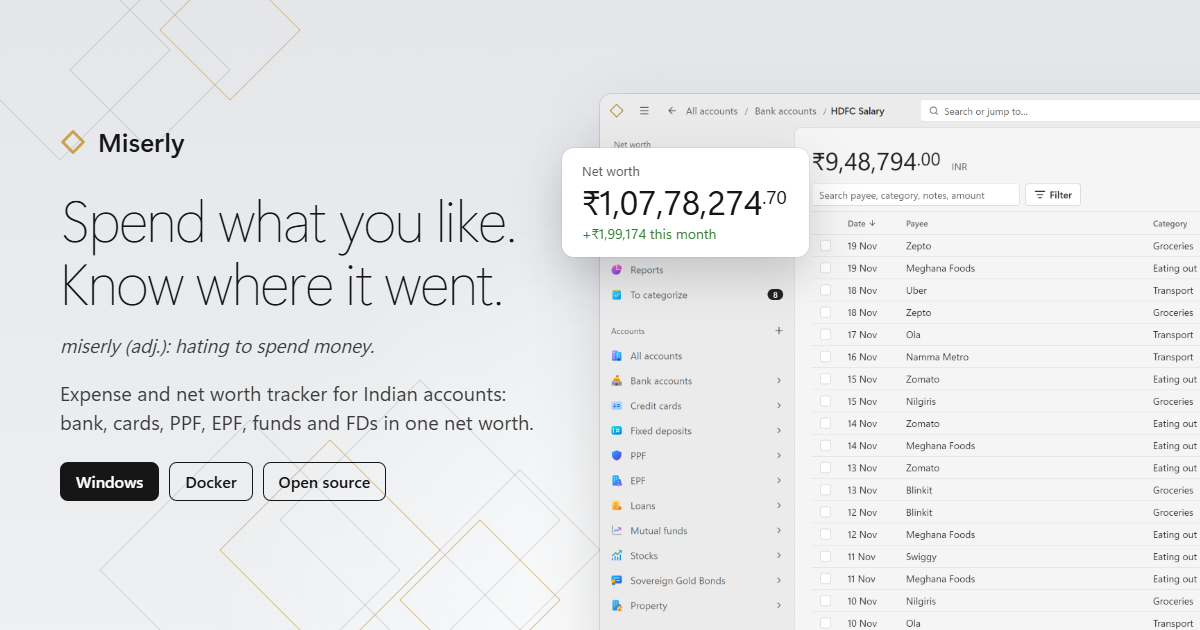
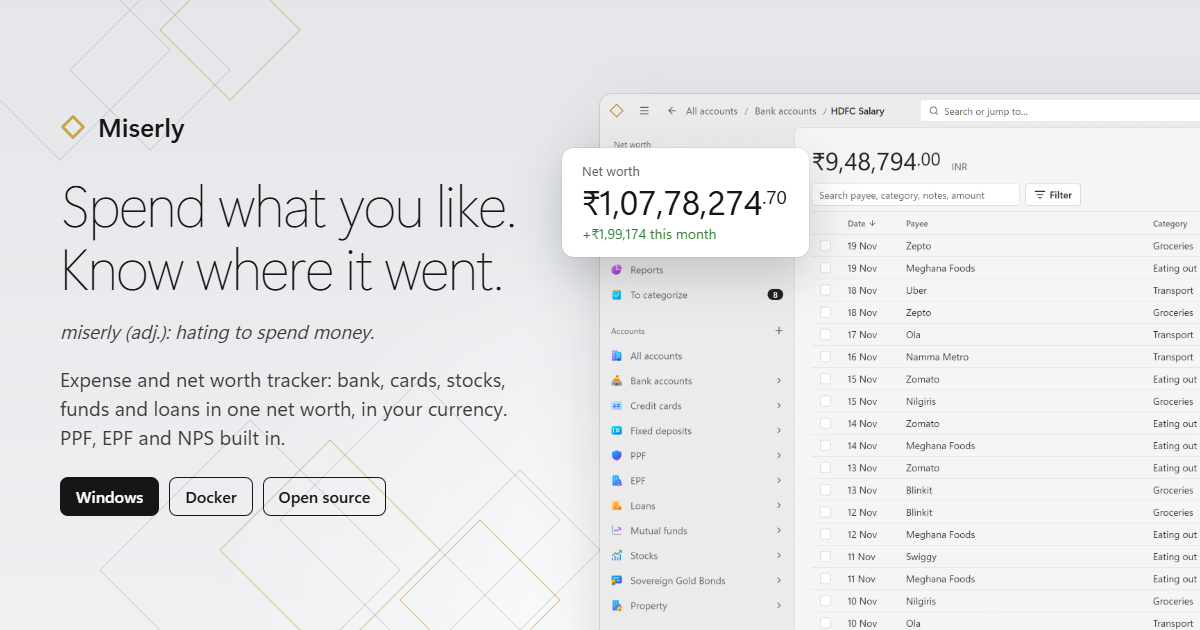
Wording for any currency: the title, descriptions and share card; the Store copy's data folder

Changed region(s): [[0.0308, 0.5127, 0.4317, 0.8444], [0.0308, 0.3016, 0.4317, 0.4825], [0.0308, 0.181, 0.1542, 0.2413]]

diff --git a/site/index.html b/site/index.html
@@ -3,8 +3,8 @@
 <head>
 <meta charset="utf-8">
 <meta name="viewport" content="width=device-width, initial-scale=1">
-<title>Miserly: expense and net worth tracker for Indian accounts</title>
-<meta name="description" content="Free, open-source expense and net worth tracker for India. Type in what you spend and what your PPF, EPF, NPS, mutual funds and FDs are worth, and see one net worth. Windows app or Docker, no bank logins.">
+<title>Miserly: free, open-source expense and net worth tracker</title>
+<meta name="description" content="Bank accounts, cards, stocks, mutual funds, property and loans in one net worth, in the currency you choose. PPF, EPF, NPS and lakhs and crores are built in too. No bank logins; your data stays on your computer. For Windows or Docker.">
 <link rel="canonical" href="https://miserly.jamlab.in/">
 <meta name="theme-color" content="#eef0f2" media="(prefers-color-scheme: light)">
 <meta name="theme-color" content="#0b0b0b" media="(prefers-color-scheme: dark)">
@@ -13,21 +13,21 @@
 <meta property="og:type" content="website">
 <meta property="og:site_name" content="Miserly">
 <meta property="og:url" content="https://miserly.jamlab.in/">
-<meta property="og:title" content="Miserly: expense and net worth tracker for Indian accounts">
-<meta property="og:description" content="Type in what you spend and what your PPF, EPF, funds and FDs are worth. See it all as one net worth, on your own computer. Free and open source.">
+<meta property="og:title" content="Miserly: free, open-source expense and net worth tracker">
+<meta property="og:description" content="Type in what you spend and what your accounts and investments are worth, in the currency you choose. See it all as one net worth, on your own computer. PPF, EPF and NPS built in. Free and open source.">
 <meta property="og:image" content="https://miserly.jamlab.in/img/og.png">
 <meta property="og:image:width" content="1200">
 <meta property="og:image:height" content="630">
 <meta property="og:image:alt" content="Miserly: Spend what you like. Know where it went. A bank account's register beside a net worth of ₹1,07,78,274.70.">
 <meta property="og:locale" content="en_IN">
 <meta name="twitter:card" content="summary_large_image">
-<meta name="twitter:title" content="Miserly: expense and net worth tracker for Indian accounts">
-<meta name="twitter:description" content="Type in what you spend and what your PPF, EPF, funds and FDs are worth. See it all as one net worth, on your own computer. Free and open source.">
+<meta name="twitter:title" content="Miserly: free, open-source expense and net worth tracker">
+<meta name="twitter:description" content="Type in what you spend and what your accounts and investments are worth, in the currency you choose. See it all as one net worth, on your own computer. PPF, EPF and NPS built in. Free and open source.">
 <meta name="twitter:image" content="https://miserly.jamlab.in/img/og.png">
 <meta name="twitter:image:alt" content="Miserly: Spend what you like. Know where it went. A bank account's register beside a net worth of ₹1,07,78,274.70.">
 <script type="application/ld+json">
 {"@context":"https://schema.org","@type":"SoftwareApplication","name":"Miserly","url":"https://miserly.jamlab.in/",
- "description":"Expense and net worth tracker for Indian accounts. You type each transaction and what your investments are worth; Miserly adds them into one net worth.",
+ "description":"Expense and net worth tracker. Bank accounts, cards, stocks, mutual funds, property and loans in one net worth, in the currency you choose. PPF, EPF, NPS and lakhs and crores are built in too. You type each transaction and what your investments are worth; Miserly adds them into one net worth.",
  "applicationCategory":"FinanceApplication","operatingSystem":"Windows 10, Windows 11, Docker","softwareVersion":"26.11.0",
  "offers":{"@type":"Offer","price":"0","priceCurrency":"INR"},"license":"https://www.gnu.org/licenses/agpl-3.0.html",
  "downloadUrl":"https://github.com/justanothermedialab/miserly/releases/latest","codeRepository":"https://github.com/justanothermedialab/miserly",
@@ -105,7 +105,7 @@
 		<div class="tile"><div class="hd"><span class="ti"><img src="img/vault.svg" alt=""></span><h3>Fixed and recurring deposits</h3></div><p>The rate, the maturity date and what you have put in.</p></div>
 		<div class="tile"><div class="hd"><span class="ti"><img src="img/building_home.svg" alt=""></span><h3>Property and loans</h3></div><p>What you own and what you owe, in the same net worth.</p></div>
 		<div class="tile"><div class="hd"><span class="ti" aria-hidden="true">USD</span><h3>Other currencies</h3></div><p>Converted at rates you set.</p></div>
-		<p class="extra">For Indian accounts: PPF, EPF with its EPS pension, NPS Tier I and II, Sovereign Gold Bonds, lakhs and crores, and the April to March year in reports.</p>
+		<p class="extra">Built in for India: PPF, EPF with its EPS pension, NPS Tier I and II, Sovereign Gold Bonds, lakhs and crores, and the April to March year in reports.</p>
 	</div>
 </div></section>
 
@@ -180,7 +180,7 @@
 	<div class="qhead"><h2 id="h-s9">Questions</h2><div class="qb"><button type="button" data-q="open">Expand all</button><button type="button" data-q="close">Collapse all</button></div></div>
 	<div class="qs">
 		<details class="q"><summary><small>01/</small><span>Where is my data kept?</span><i><svg viewBox="0 0 16 16" aria-hidden="true"><path class="v" d="M8 2v12" stroke="currentColor" stroke-width="1.2"/><path d="M2 8h12" stroke="currentColor" stroke-width="1.2"/></svg></i></summary>
-			<div class="a"><p>In one file, <code>miserly.db</code>. With the Windows app it sits in the <code>data</code> folder next to <code>Miserly.exe</code>; with Docker, on your own server. Miserly sends nothing anywhere: no account with us, no analytics, no tracking.</p></div></details>
+			<div class="a"><p>In one file, <code>miserly.db</code>. With the portable zip it sits in the <code>data</code> folder next to <code>Miserly.exe</code>; with the Microsoft Store copy, in a <code>Miserly data</code> folder in your user folder; with Docker, on your own server. Miserly sends nothing anywhere: no account with us, no analytics, no tracking.</p></div></details>
 		<details class="q"><summary><small>02/</small><span>Do I connect my bank?</span><i><svg viewBox="0 0 16 16" aria-hidden="true"><path class="v" d="M8 2v12" stroke="currentColor" stroke-width="1.2"/><path d="M2 8h12" stroke="currentColor" stroke-width="1.2"/></svg></i></summary>
 			<div class="a"><p>No. Miserly never asks for bank logins and never reads your SMS, email or statements. You type each transaction in, and what each investment is worth when you check it.</p></div></details>
 		<details class="q"><summary><small>03/</small><span>What does it cost?</span><i><svg viewBox="0 0 16 16" aria-hidden="true"><path class="v" d="M8 2v12" stroke="currentColor" stroke-width="1.2"/><path d="M2 8h12" stroke="currentColor" stroke-width="1.2"/></svg></i></summary>

diff --git a/README.md b/README.md
@@ -1,7 +1,7 @@
 # miserly.jamlab.in
 
 The website of [Miserly](https://github.com/justanothermedialab/miserly), an expense and net worth
-tracker for Indian accounts: the landing page at `/` and the user guide at `/docs`.
+tracker: the landing page at `/` and the user guide at `/docs`.
 
 The guide's text is not kept here. It lives in the app's repo, in
 [`docs/user-guide/pages/`](https://github.com/justanothermedialab/miserly/tree/main/docs/user-guide/pages),
